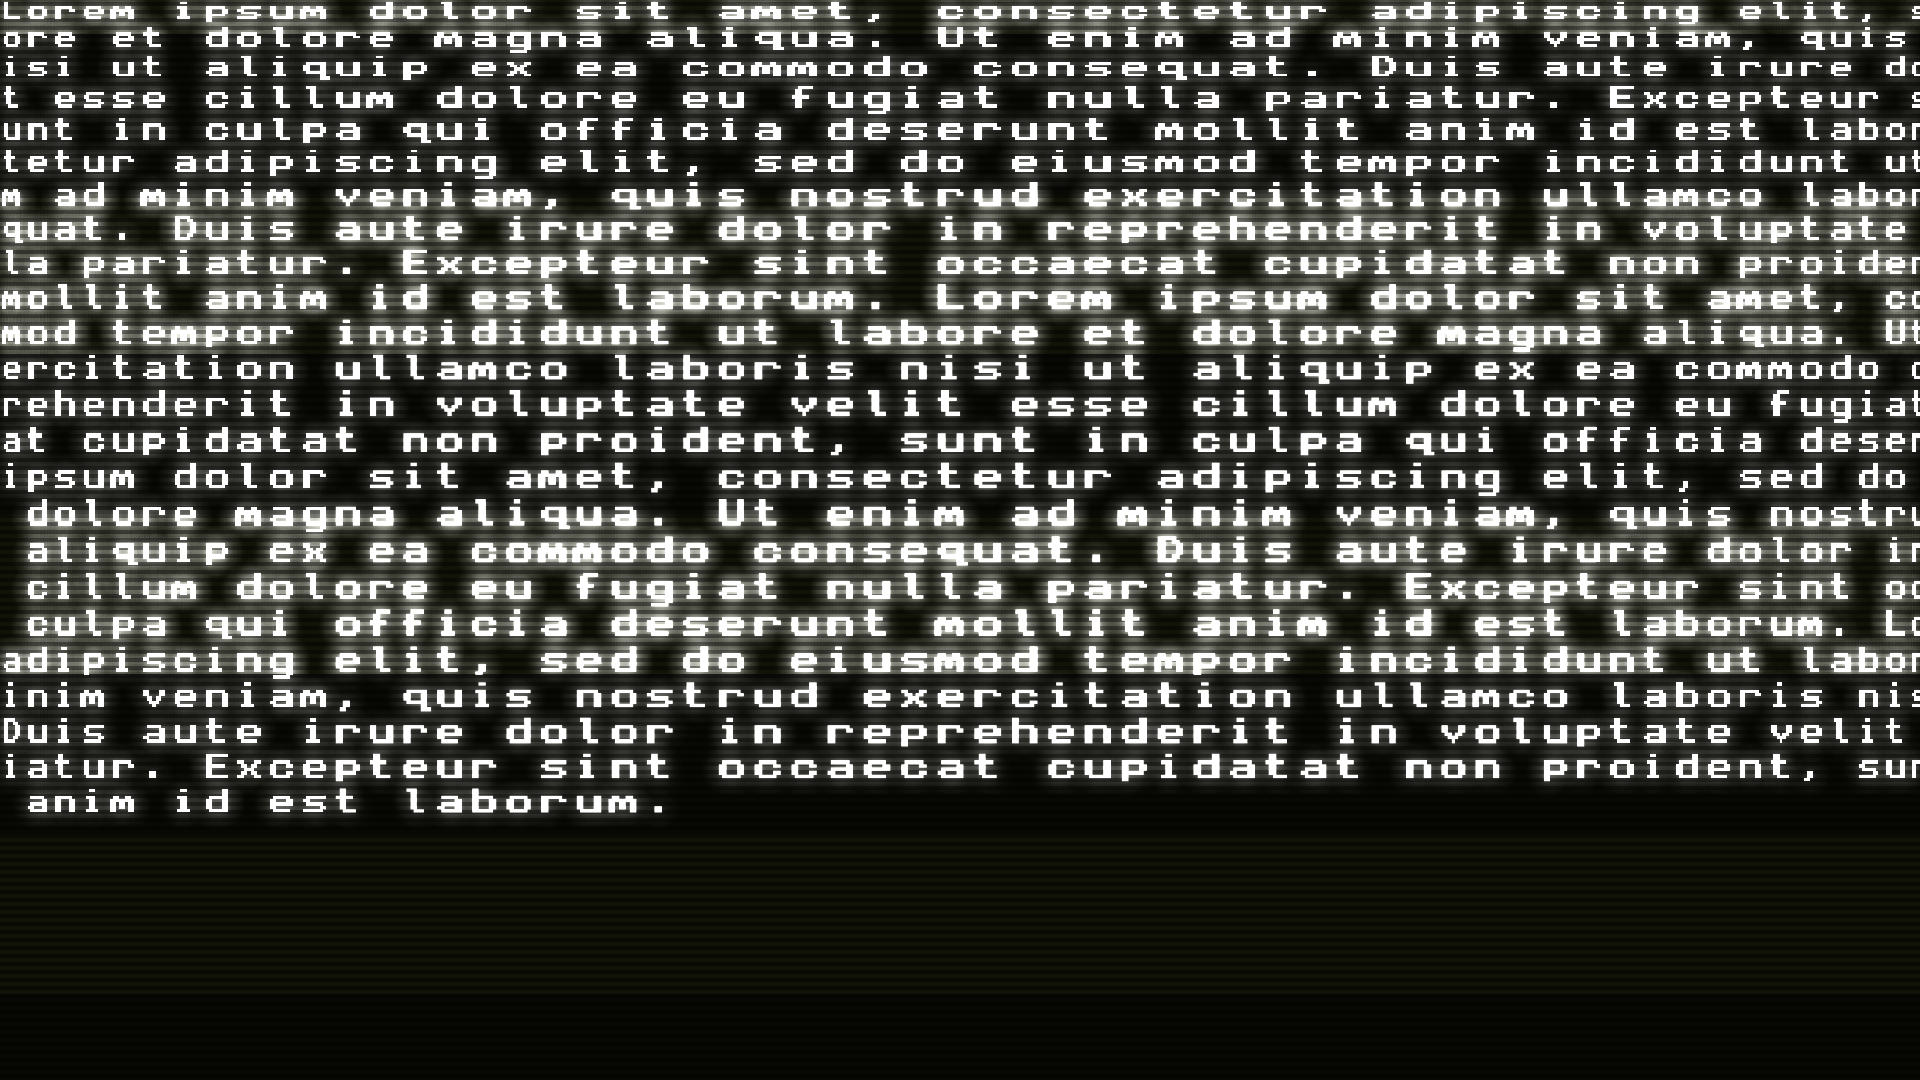
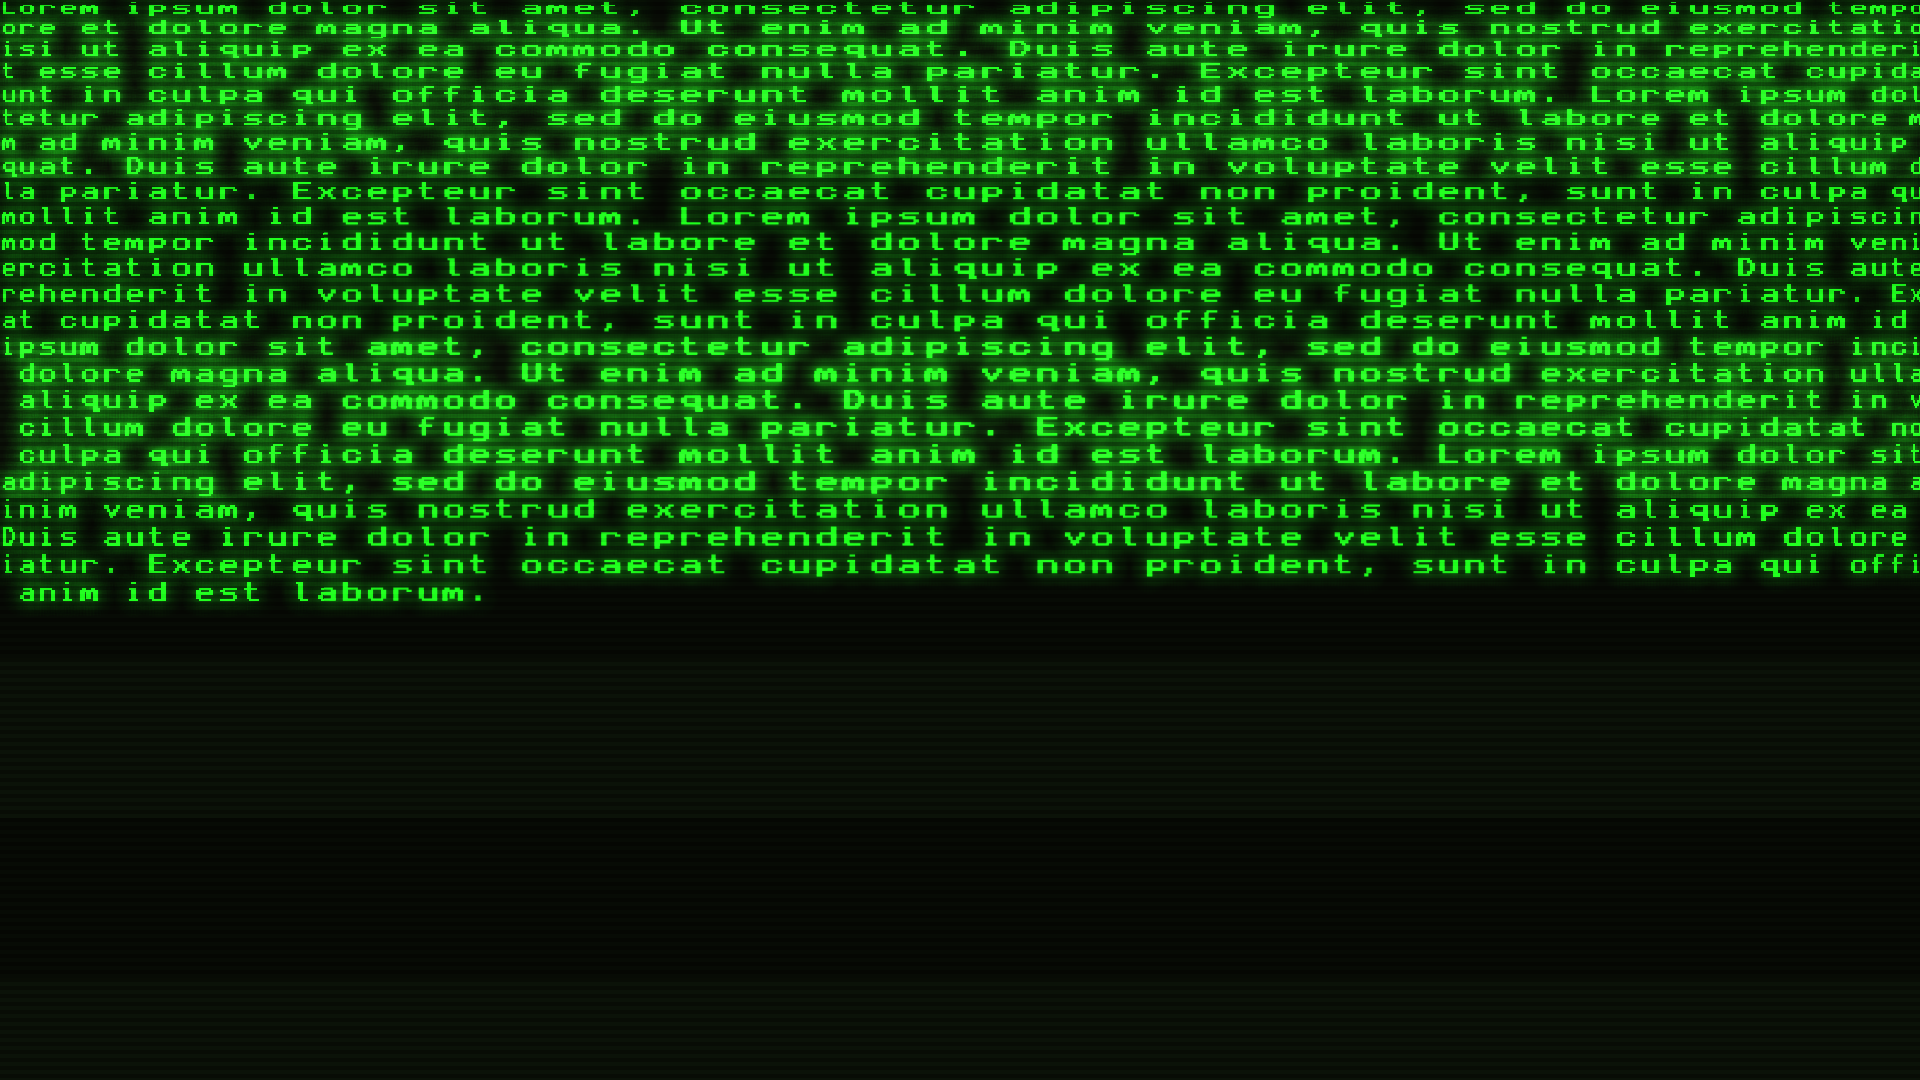
Update vhs shader

diff --git a/src/state.rs b/src/state.rs
@@ -410,7 +410,7 @@ impl State {
             winit::event::WindowEvent::ReceivedCharacter(c) => {
                 self.characters.push_char(Character::new(
                     [0.0, 0.0, 0.0],
-                    [1.0, 1.0, 1.0],
+                    [0.1, 1.0, 0.1],
                     c as u32,
                 ));
 
